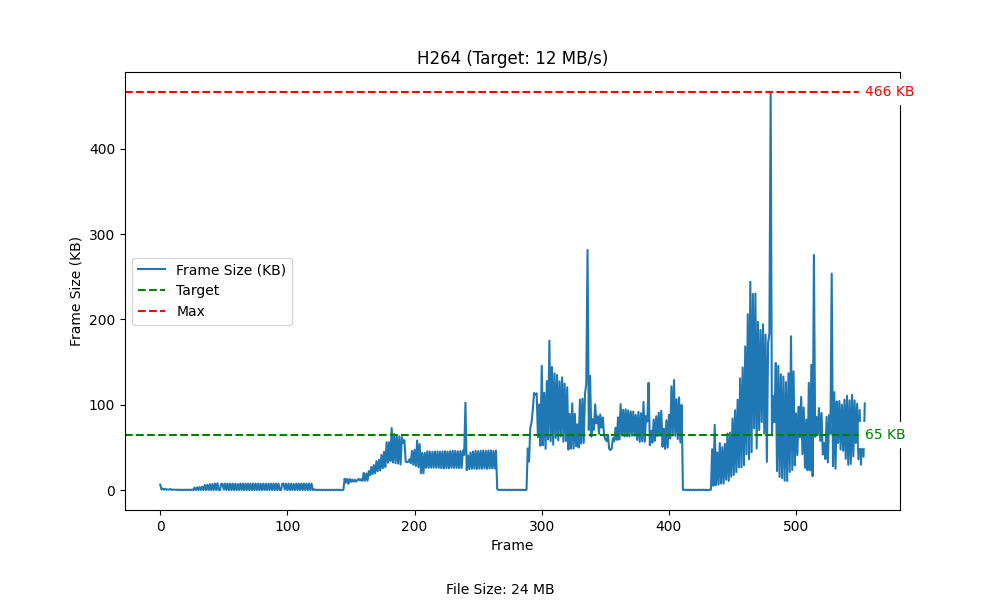
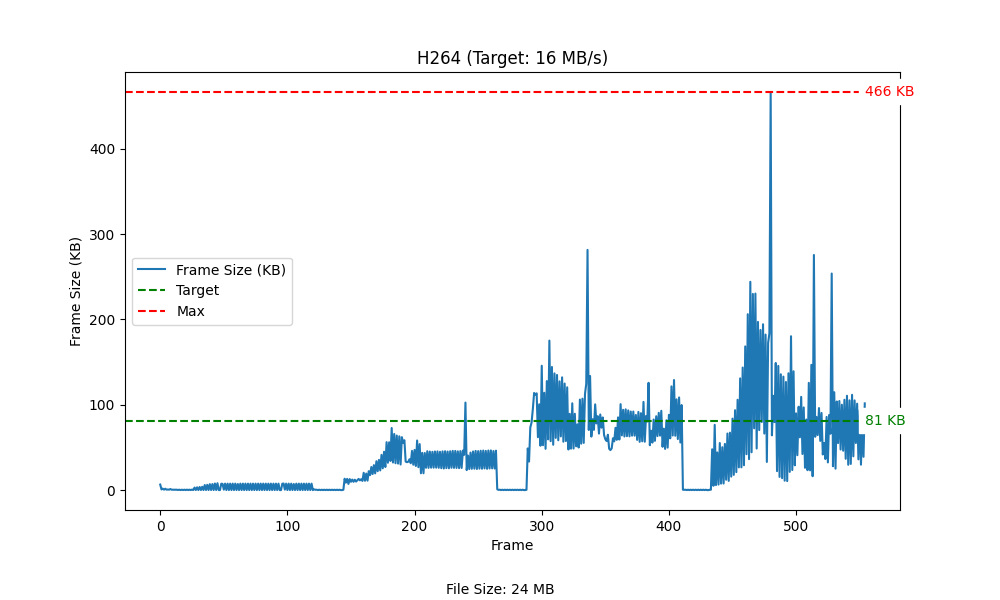
README

Changed region(s): [[0.837, 0.69, 0.899, 0.75], [0.527, 0.09, 0.589, 0.12]]

diff --git a/codec_target_bitrates.py b/codec_target_bitrates.py
@@ -17,4 +17,6 @@ CODEC_TARGET_BITRATES = {
 # Adjust bitrates for 24fps
 FPS_ADJUSTMENT_RATIO = 24 / 29.97
 for codec in CODEC_TARGET_BITRATES:
+    if codec == 'H264':
+        continue
     CODEC_TARGET_BITRATES[codec]['bitrate'] *= FPS_ADJUSTMENT_RATIO
